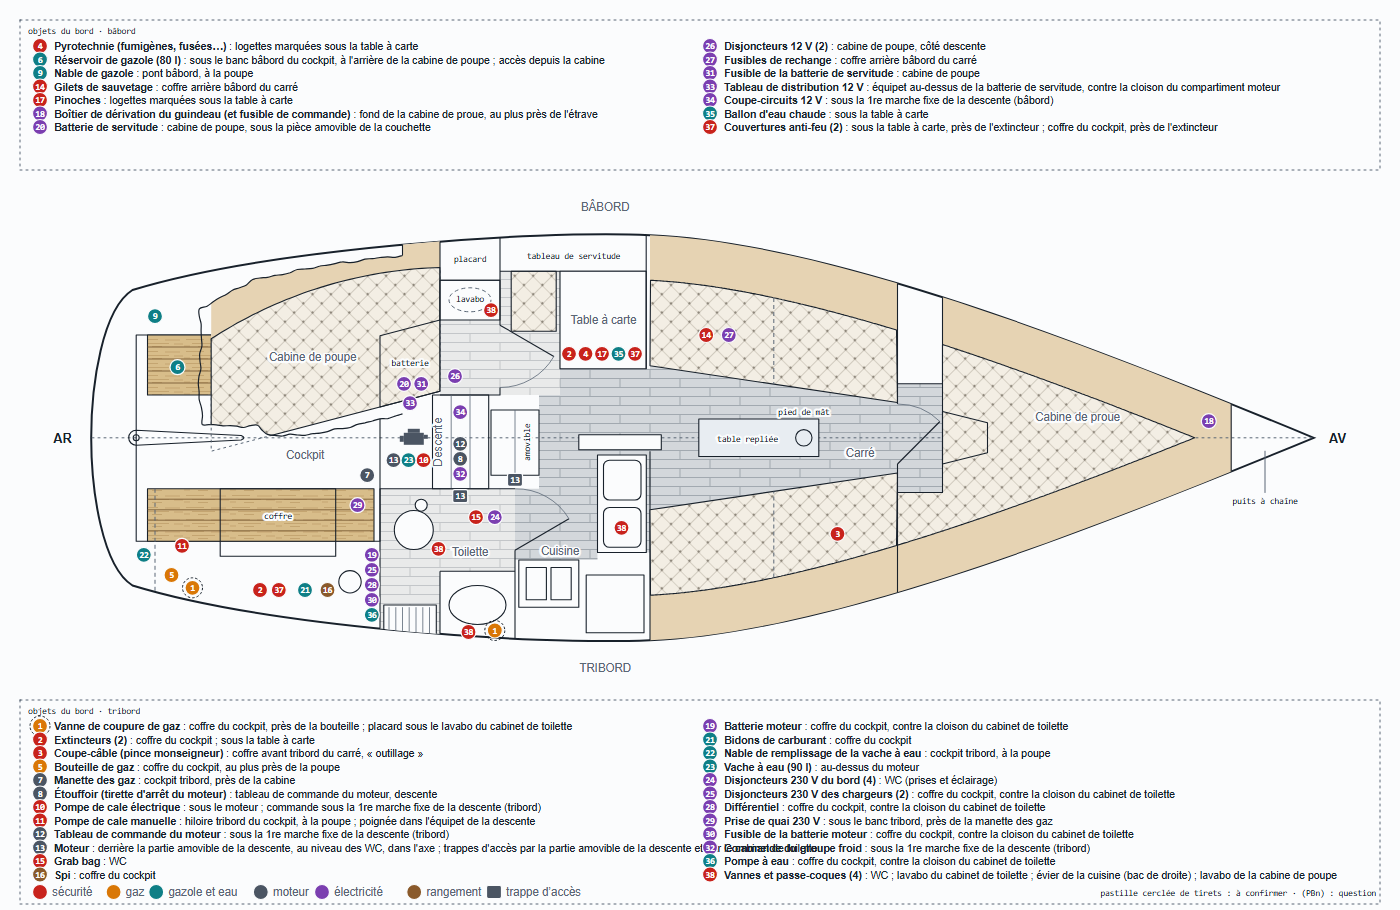
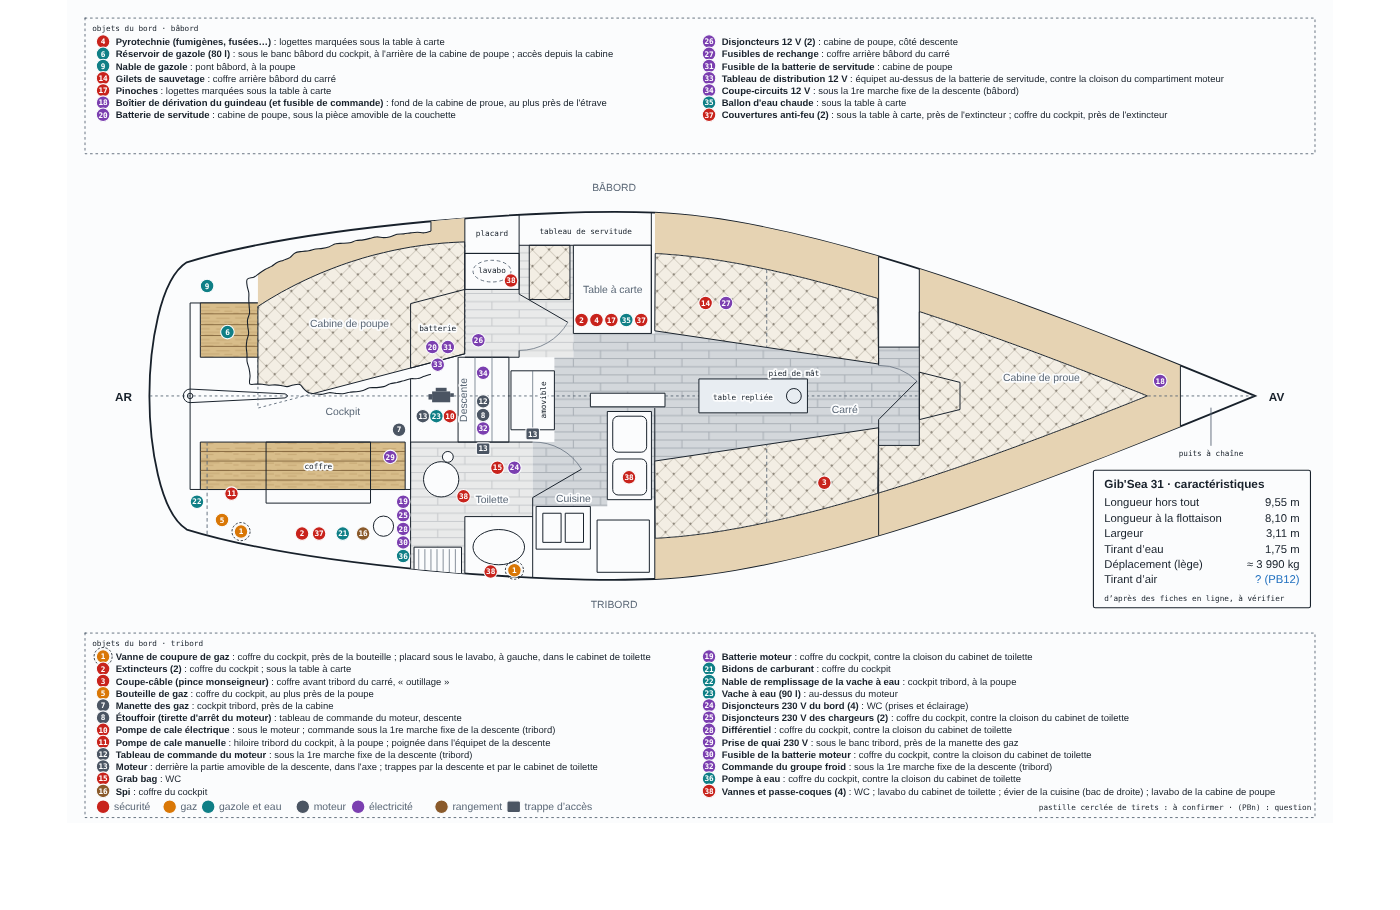
Plan de bord : README (mise à jour du 20/10, PB12, copie pour Inkscape) et aperçu
Claude-Session: https://claude.ai/code/session_01PfnmSoVDkRxrtUipr37kZi

diff --git a/brouillons/plan-de-bord/README.md b/brouillons/plan-de-bord/README.md
@@ -8,8 +8,10 @@ Phases :
 2. Données des objets : premier essai le 19/10 dans `objets.yaml`, d'après la feuille Google « Emplacement trucs bateau » (lue sans la modifier), repris le même jour avec la feuille complétée (38 lignes) et les réponses de l'utilisateur. Chaque objet a un numéro, une catégorie (couleur de la pastille), son emplacement en clair et ses positions sur le plan, toutes estimées. À reporter dans le relevé quand les emplacements seront confirmés.
 3. Légendes : premier essai, pastilles numérotées sur le plan (cerclées de tirets quand la feuille dit « à confirmer »), repères carrés pour les trappes d'accès, pictogramme du moteur et liste par bord dans les cadres du haut et du bas, avec la clé des couleurs.
 
-Questions de la phase 2 : PB1 à PB11, toutes répondues le 19/10. Restent à faire : vérifier les emplacements « à confirmer avec Julie » (vanne de gaz), puis reporter les objets dans le relevé.
+4. Mise à jour du 20/10 : feuille relue (vanne de gaz : placard sous le lavabo, à gauche, dans le cabinet de toilette) ; cartouche des caractéristiques du bateau (`bateau:` dans `objets.yaml`), d'après des fiches en ligne ([sailboatdata](https://sailboatdata.com/sailboat/gibsea-31/), [SailingTheWeb](https://www.sailingtheweb.com/en/sailboat/gibert+marine+(gib+sea)/gib+sea+31), [Yacht Database](https://www.yachtdatabase.com/sv/review.jsp?id=Gib%27Sea+31)), donc `statut: estime` jusqu'à vérification sur les papiers du bord ; copie pour Inkscape.
 
-`python brouillons/plan-de-bord/plan_bord.py` régénère le SVG ; il reprend le bloc `<style>` du folio 0 et y ajoute les classes `amg`, `amg-f`, `amg-b`, `amg-d`, `amg-l`, `arr`, `halo`, `sol-b`, `sol-h`, `mat`, `teck`, `teck-j`, `vaig`, `vaig-f`, `obj`, `conf`, `tr`, `leg`, `ico-mot` et les classes de catégorie, les variables de couleur des textures et leurs motifs (`<defs>`), à reporter dans tous les folios et dans `page.py` à l'intégration.
+Questions de la phase 2 : PB1 à PB11, toutes répondues le 19/10. PB12 (20/10) : tirant d'air (hauteur du mât au-dessus de la flottaison, antenne comprise) ? Aucune fiche en ligne ne le donne ; à mesurer ou à lire sur les papiers du bord. Restent à faire : vérifier les emplacements « à confirmer avec Julie » (vanne de gaz), puis reporter les objets dans le relevé.
+
+`python brouillons/plan-de-bord/plan_bord.py` régénère le SVG et sa copie `folio-6-plan-de-bord-inkscape.svg` : mêmes dessins, couleurs du thème clair écrites en dur (Inkscape et la plupart des visionneuses ne lisent pas les variables CSS), fond dans un calque verrouillé, pastilles et trappes du plan dans le calque « Pastilles à placer », identifiées `pN-i` / `tN-i` (objet N, i-ème emplacement, en partant de 0). Pour placer les repères : déplacer les pastilles dans cette copie, sans toucher au reste, puis reporter leurs positions dans `objets.yaml` (X = 80 + 0,75 · x ; Y = 196,25 + 0,75 · y) ; ne pas retoucher les SVG, réécrits à chaque génération. Le script il reprend le bloc `<style>` du folio 0 et y ajoute les classes `amg`, `amg-f`, `amg-b`, `amg-d`, `amg-l`, `arr`, `halo`, `sol-b`, `sol-h`, `mat`, `teck`, `teck-j`, `vaig`, `vaig-f`, `obj`, `conf`, `tr`, `leg`, `ico-mot` et les classes de catégorie, les variables de couleur des textures et leurs motifs (`<defs>`), à reporter dans tous les folios et dans `page.py` à l'intégration.
 
 Hors de `Electricité/` tant que l'emplacement définitif n'est pas décidé (proposé : `Electricité/livret/`, ou un dossier propre à l'armement) ; le vérificateur ne le contrôle donc pas encore.
